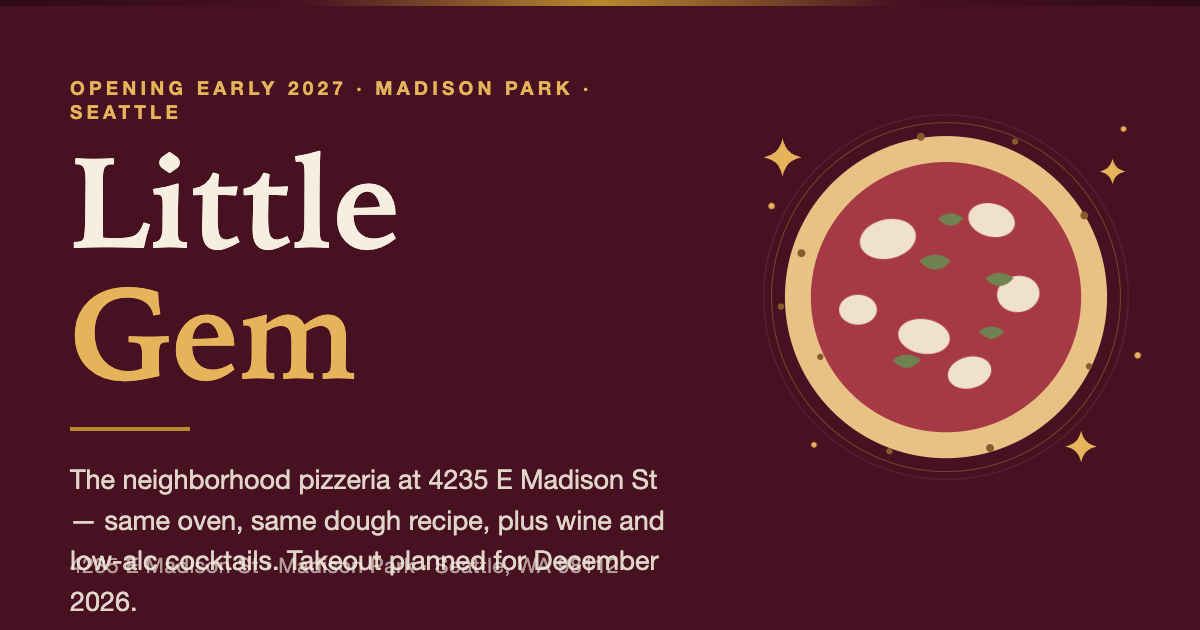
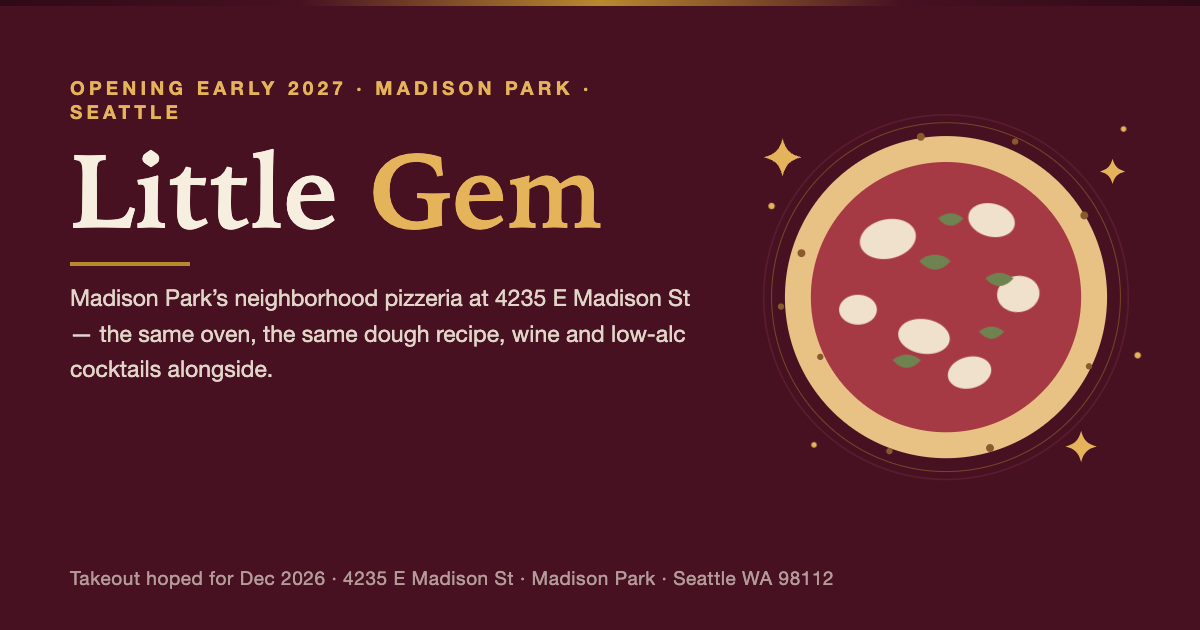
fix: og share-card address-line collision (measured rects, gap 180px)

diff --git a/og-src.html b/og-src.html
@@ -9,11 +9,11 @@
   .band{position:absolute;left:0;top:0;width:1200px;height:6px;background:linear-gradient(90deg,#2e0a16,#471122 25%,#b9892f 50%,#471122 75%,#2e0a16)}
   .wrap{position:absolute;left:70px;top:76px;width:640px}
   .label{font-size:19px;font-weight:700;letter-spacing:.22em;text-transform:uppercase;color:#e5b45a}
-  h1{font-family:'Iowan Old Style','Palatino Linotype',Palatino,Georgia,serif;font-size:128px;line-height:1.02;margin:14px 0 4px;color:#f6efe0}
+  h1{font-family:'Iowan Old Style','Palatino Linotype',Palatino,Georgia,serif;font-size:104px;line-height:1.02;margin:14px 0 4px;color:#f6efe0}
   h1 em{font-style:normal;color:#e5b45a}
-  .rule{width:120px;height:4px;background:#b9892f;margin:28px 0}
-  .sub{font-size:27px;line-height:1.5;color:rgba(246,239,224,.88);max-width:620px}
-  .addr{position:absolute;left:70px;bottom:52px;font-size:21px;color:rgba(246,239,224,.62);letter-spacing:.03em}
+  .rule{width:120px;height:4px;background:#b9892f;margin:18px 0 14px}
+  .sub{font-size:23px;line-height:1.55;color:rgba(246,239,224,.88);max-width:640px}
+  .addr{position:absolute;left:70px;bottom:40px;font-size:19px;color:rgba(246,239,224,.62);letter-spacing:.03em}
   .art{position:absolute;right:34px;top:96px;width:440px}
 </style>
 </head>
@@ -23,9 +23,9 @@
   <p class="label">Opening early 2027 · Madison Park · Seattle</p>
   <h1>Little <em>Gem</em></h1>
   <div class="rule"></div>
-  <p class="sub">The neighborhood pizzeria at 4235 E Madison St — same oven, same dough recipe, plus wine and low-alc cocktails. Takeout planned for December 2026.</p>
+  <p class="sub">Madison Park&rsquo;s neighborhood pizzeria at 4235 E Madison St — the same oven, the same dough recipe, wine and low-alc cocktails alongside.</p>
 </div>
 <svg class="art" viewBox="0 0 560 520" xmlns="http://www.w3.org/2000/svg" aria-hidden="true"><g fill="none"><circle cx="280" cy="256" r="232" stroke="#5c1c2e" stroke-width="2"/><circle cx="280" cy="256" r="222" stroke="#b9892f" stroke-width="1" opacity=".55"/></g><g fill="none"><circle cx="280" cy="256" r="205" fill="#e8c185"/><circle cx="280" cy="256" r="172" fill="#a63a44"/><g fill="#8a5a2e"><circle cx="96" cy="200" r="5"/><circle cx="120" cy="332" r="4"/><circle cx="248" cy="52" r="5"/><circle cx="368" cy="58" r="4"/><circle cx="456" cy="152" r="5"/><circle cx="462" cy="344" r="4"/><circle cx="336" cy="448" r="5"/><circle cx="208" cy="452" r="4"/><circle cx="70" cy="268" r="4"/></g><g fill="#f4ead3" opacity=".95"><ellipse cx="206" cy="182" rx="36" ry="25" transform="rotate(-12 206 182)"/><ellipse cx="338" cy="158" rx="30" ry="21" transform="rotate(14 338 158)"/><ellipse cx="372" cy="252" rx="27" ry="23" transform="rotate(-8 372 252)"/><ellipse cx="252" cy="306" rx="33" ry="22" transform="rotate(9 252 306)"/><ellipse cx="168" cy="272" rx="24" ry="19"/><ellipse cx="310" cy="352" rx="28" ry="20" transform="rotate(-14 310 352)"/></g><g fill="#6f8350"><path d="M246 210q20 -16 40 0q-20 22 -40 0Z"/><path d="M330 232q18 -14 36 0q-18 20 -36 0Z"/><path d="M212 336q18 -14 36 0q-18 20 -36 0Z"/><path d="M322 300q16 -13 32 0q-16 18 -32 0Z"/><path d="M270 156q16 -13 32 0q-16 18 -32 0Z"/></g><g fill="#e5b45a"><path d="M0-24C4-9 9-4 24 0C9 4 4 9 0 24C-4 9 -9 4 -24 0C-9-4 -4-9 0-24Z" transform="translate(72 78)"/><path d="M0-16C3-6 6-3 16 0C6 3 3 6 0 16C-3 6 -6 3 -16 0C-6-3 -3-6 0-16Z" transform="translate(492 96)"/><path d="M0-20C3-8 8-3 20 0C8 3 3 8 0 20C-3 8 -8 3 -20 0C-8-3 -3-8 0-20Z" transform="translate(452 446)"/><circle cx="58" cy="140" r="4"/><circle cx="506" cy="42" r="3.5"/><circle cx="524" cy="330" r="4"/><circle cx="112" cy="444" r="3.5"/></g></g></svg>
-<p class="addr">4235 E Madison St · Madison Park · Seattle, WA 98112</p>
+<p class="addr">Takeout hoped for Dec 2026 · 4235 E Madison St · Madison Park · Seattle WA 98112</p>
 </body>
 </html>
